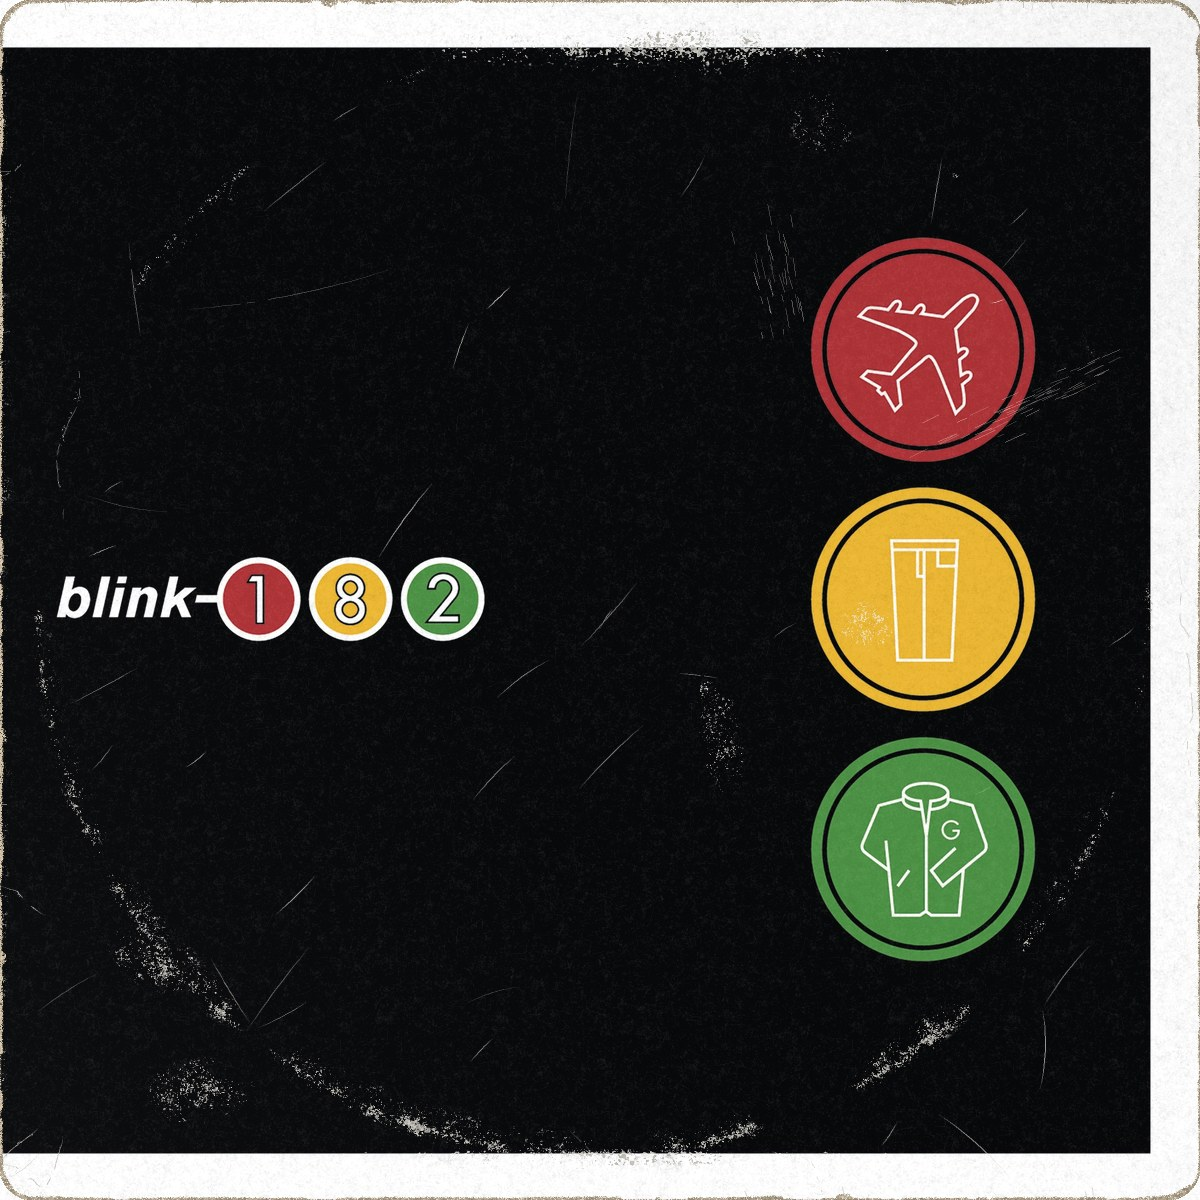
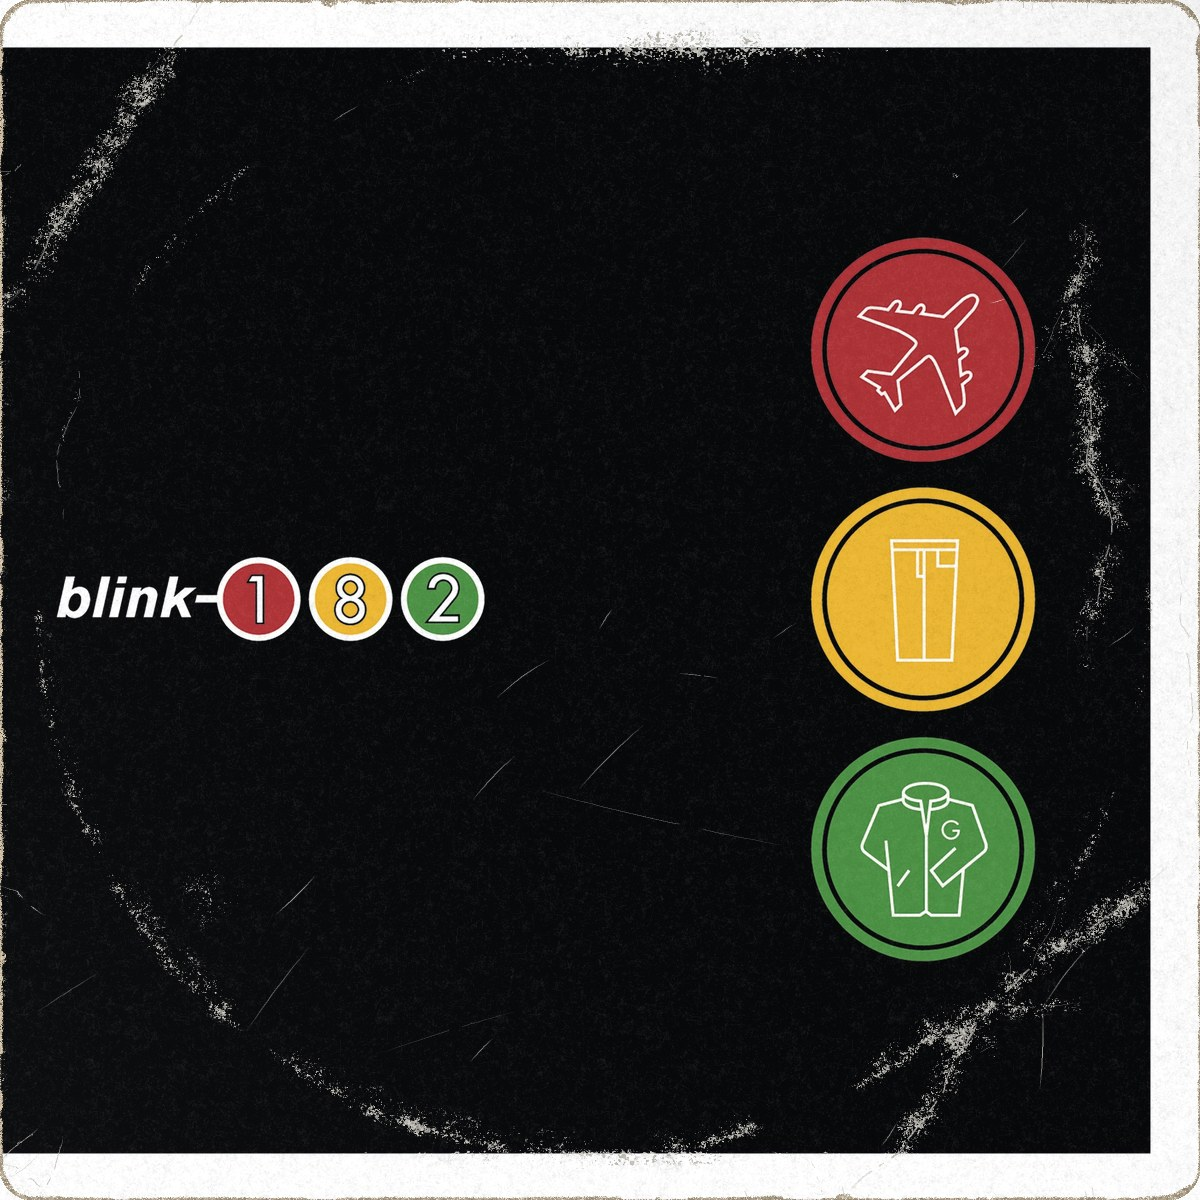
40: bends (wear.bends) — creases where a sleeve got bent; Blink gets three
A bend is a crack across a corner or along an edge, well into the face, with
the ink flaked in a band beside it where the ridge rubbed (the Incubus
top-right look). It shows at every level. Blink-182: three bends and much
less of the surface layer; the extra scratches are near-straight everywhere
now, since curled hairlines on black read as hair.

Claude-Session: https://claude.ai/code/session_01PbqXtG5SizYecEWh39Pkkj

diff --git a/scripts/make-wear.py b/scripts/make-wear.py
@@ -416,10 +416,10 @@ def ring_layer(slug, year):
     return lay
 
 
-def surface_layer(slug, year, face='', mean=.5, edgew=1.0, surfw=0.0):
+def surface_layer(slug, year, face='', mean=.5, edgew=1.0, surfw=0.0, bendw=0.0):
     """What happened to one face: its cut edges and corners, shelf scuffs, the hand that held it,
     cracks, scratches and grit. The front and the back ('' / ':back') each have their own."""
-    key = (slug, year, face, round(mean, 3), edgew, surfw)
+    key = (slug, year, face, round(mean, 3), edgew, surfw, bendw)
     if key in _SURF:
         return _SURF[key]
     R = ring_layer(slug, year)
@@ -603,12 +603,12 @@ def surface_layer(slug, year, face='', mean=.5, edgew=1.0, surfw=0.0):
             L = S * math.exp(XU(math.log(.012), math.log(.08)))
             a = a0 + xr.normal(0, .5) if xr.random() < .45 else XU(0, math.pi)
             x0, y0 = XU(.03, .97) * S, XU(.03, .97) * S
-            bezier_line(dsx, x0, y0, x0 + math.cos(a) * L, y0 + math.sin(a) * L, XU(-.1, .1) * L,
+            bezier_line(dsx, x0, y0, x0 + math.cos(a) * L, y0 + math.sin(a) * L, XU(-.03, .03) * L,   # near straight: curls read as hair
                         XU(95, 190) if xr.random() < .75 else XU(190, 245), 14, .7)
         for _ in range(int(XU(2, 6) * k)):                       # longer hairlines, broken in places
             L = S * math.exp(XU(math.log(.05), math.log(.25))); a = XU(0, math.pi)
             x0, y0 = XU(0, S), XU(0, S)
-            bezier_line(dsx, x0, y0, x0 + math.cos(a) * L, y0 + math.sin(a) * L, XU(-.06, .06) * L,
+            bezier_line(dsx, x0, y0, x0 + math.cos(a) * L, y0 + math.sin(a) * L, XU(-.02, .02) * L,
                         XU(60, 140), 28, .5, gaps=[(g0, g0 + XU(.03, .12)) for g0 in xr.uniform(.1, .9, int(XU(1, 4)))])
         nrub = int(XU(1, 3.5) * k) if mean <= .62 or age > 40 else int(XU(0, 1.5) * k)
         for _ in range(nrub):                                    # rub patches: fine parallel strokes where something slid
@@ -636,6 +636,29 @@ def surface_layer(slug, year, face='', mean=.5, edgew=1.0, surfw=0.0):
             du = (xx - cx2) * math.cos(th) + (yy - cy2) * math.sin(th); dv = -(xx - cx2) * math.sin(th) + (yy - cy2) * math.cos(th)
             Pi = np.maximum(Pi, XU(.12, .3) * min(1.3, k) * np.exp(-(du / r1) ** 2 - (dv / r2) ** 2))
 
+    # 3c. wear.bends: the sleeve got bent — a crease across a corner or along an edge (the Incubus
+    #     top-right), its line cracked and the ink flaked in a band beside it where the ridge rubbed.
+    if bendw > 0:
+        br = seed(slug + (face or ':face') + ':bend'); BU = br.uniform
+        bd = Image.new('L', (N, N), 0); dbd = ImageDraw.Draw(bd)
+        spots = list(br.permutation(8))                            # each bend its own corner or side
+        for i in range(int(round(bendw))):
+            spot = int(spots[i % 8])
+            if spot < 4:                                           # a corner bent over, well into the face
+                px, py, sx_, sy_ = [(0, 0, 1, 1), (S - 1, 0, -1, 1), (0, S - 1, 1, -1), (S - 1, S - 1, -1, -1)][spot]
+                d1, d2 = S * BU(.14, .32), S * BU(.14, .32)
+                x0, y0, x1, y1 = px + sx_ * d1, py + sy_ * (inset(d1) + 1.5), px + sx_ * (inset(d2) + 1.5), py + sy_ * d2
+            else:                                                  # a bend running along an edge, a way in
+                side = spot - 4; off = S * BU(.06, .16); c = S * BU(.1, .55); L = S * BU(.25, .45)
+                x0, y0, x1, y1 = [(c, off, c + L, off + BU(-.04, .04) * L), (c, S - off, c + L, S - off + BU(-.04, .04) * L),
+                                  (off, c, off + BU(-.04, .04) * L, c + L), (S - off, c, S - off + BU(-.04, .04) * L, c + L)][side]
+            crack(dbd, br, x0, y0, math.atan2(y1 - y0, x1 - x0), math.hypot(x1 - x0, y1 - y0), BU(.85, 1.0), 3)
+        bimg = bd.resize((S, S), Image.BOX)
+        cracks = np.maximum(cracks, np.asarray(bimg).astype(np.float32) / 255)
+        ridge = np.asarray(bimg.filter(ImageFilter.GaussianBlur(BU(6, 10)))).astype(np.float32) / 255
+        bends_pi = np.clip(ridge * 8, 0, 1) * BU(.75, .95)          # the flaked band along the fold, strong
+        Pi = np.maximum(Pi, bends_pi)
+
     # 4. On the oldest sleeves, a small tear at one edge, showing the card.
     tear = np.zeros((S, S), np.float32)
     if age > 15 and P(.1 + .25 * old):
@@ -645,21 +668,21 @@ def surface_layer(slug, year, face='', mean=.5, edgew=1.0, surfw=0.0):
         shape = np.exp(-((u - pos) / wa) ** 4 - (v / dp) ** 2)
         tear = (shape - .35 * rng.random((S, S)) - .25 * noise1(rng, S, 6)[np.clip(u, 0, S - 1).astype(np.int32)] > .45).astype(np.float32)
 
-    lay = dict(stri=stri, ticks=ticks, grime=grime, Pi=Pi, Pb=Pb, esoil=esoil, Drr=Drr,
+    lay = dict(bends_pi=(bends_pi if bendw > 0 else None), stri=stri, ticks=ticks, grime=grime, Pi=Pi, Pb=Pb, esoil=esoil, Drr=Drr,
                profs=profs, gaps=gaps, dist=dist, alongidx=alongidx, jag=jag, corners=corners, crumbs=crumbs,
                cracks=cracks, scratches=scratches, tear=tear)
     _SURF.clear(); _SURF[key] = lay
     return lay
 
 
-def make_mask(slug, year, dens=1.0, edgek=1.0, face='', mean=.5, edgew=1.0, surfw=0.0):
+def make_mask(slug, year, dens=1.0, edgek=1.0, face='', mean=.5, edgew=1.0, surfw=0.0, bendw=0.0):
     """dens and edgek scale the amount of wear without moving any of it, so every level is the same sleeve.
     face '' is the front, ':back' the back (the ring mirrored, everything else its own). mean is the
     cover's mean luminance (pale stock is handled differently).
     Returns channels: 0 abrasion (exposed paper), 1 crushed edge (card), 2 dirt (shows on light ink),
     3 the rim's impression line, 4 the rim's stipple, 5 grey grain in rubbed white stock."""
     R = ring_layer(slug, year)
-    L = surface_layer(slug, year, face, mean, edgew, surfw)
+    L = surface_layer(slug, year, face, mean, edgew, surfw, bendw)
     edgek = edgek * (1 + .45 * (edgew - 1))         # and a wider crushed strip and corners
     fl = (lambda a: a[:, ::-1]) if face else (lambda a: a)      # the disc presses both faces, mirrored
     T, Trub, V, Vb, Tc = fl(R['T']), fl(R['Trub']), fl(R['V']), fl(R['Vb']), fl(R['Tc'])
@@ -670,6 +693,8 @@ def make_mask(slug, year, dens=1.0, edgek=1.0, face='', mean=.5, edgew=1.0, surf
     light_old = light and R['age'] > 40
     scuff = light and not light_old                  # young and mid-aged pale stock: a bar scuffs rather than soils
     ab_i = down(flakes(Pi * dens, T) * V)
+    if L.get('bends_pi') is not None:                # a bend is a bend at any level
+        ab_i = np.maximum(ab_i, down(flakes(L['bends_pi'], T) * V))
     ab_b = np.maximum(down(flakes(Pb * dens, Trub) * Vb) * R['rub_tone'],       # a bar's frost, grey or white per sleeve
                       down(flakes(Pbc * dens, Trub) * fl(R['Vbc'])))            # and its bright core
     ab = np.maximum(ab_i, ab_b)
@@ -790,13 +815,14 @@ def job(a):
     amount = float(w.get('amount', g['amount']))
     edgew = float(w.get('edge', g['edge']))                   # per-record: more edge wear where the art hides the rest
     surfw = float(w.get('surface', g['surface']))             # per-record: more scratches, rubs, folds on the face
+    bendw = float(w.get('bends', 0))                          # per-record: creases where the sleeve got bent
     cov = load_square(ROOT / a['art'])
     lum = float(lum_of(cov).mean())
     tone = 1 + .3 * float(smooth(.6, .85, lum))           # light covers carry heavier wear
     masks = {}
     for lv in (LEVELS if LEVELS_DIR else [level]):
         dens, ek, _ = LEVELS[lv]
-        masks[lv] = make_mask(slug, a.get('year'), dens * tone * amount, ek, '', lum, edgew, surfw)
+        masks[lv] = make_mask(slug, a.get('year'), dens * tone * amount, ek, '', lum, edgew, surfw, bendw)
     mask, life, age, ring = masks[level]; k = LEVELS[level][2]
     MASKS.mkdir(parents=True, exist_ok=True)
     Image.fromarray((mask[..., :3] * 255 + .5).astype(np.uint8), 'RGB').save(MASKS / f'{slug}.png')
@@ -806,7 +832,7 @@ def job(a):
         covb = load_square(ROOT / a['art_back'], pad=True)
         lumb = float(lum_of(covb).mean())
         dens, ek, _ = LEVELS[level]
-        mb = make_mask(slug, a.get('year'), dens * (1 + .3 * float(smooth(.6, .85, lumb))) * amount, ek, ':back', lumb, edgew, surfw)[0]
+        mb = make_mask(slug, a.get('year'), dens * (1 + .3 * float(smooth(.6, .85, lumb))) * amount, ek, ':back', lumb, edgew, surfw, bendw)[0]
         bake(covb, mb, k, slug + ':back', age).save(WORN / f'{slug}-back.jpg', 'JPEG', quality=86, optimize=True, progressive=True)
         back = f'assets/40/worn/{slug}-back.jpg'
     if LEVELS_DIR:
